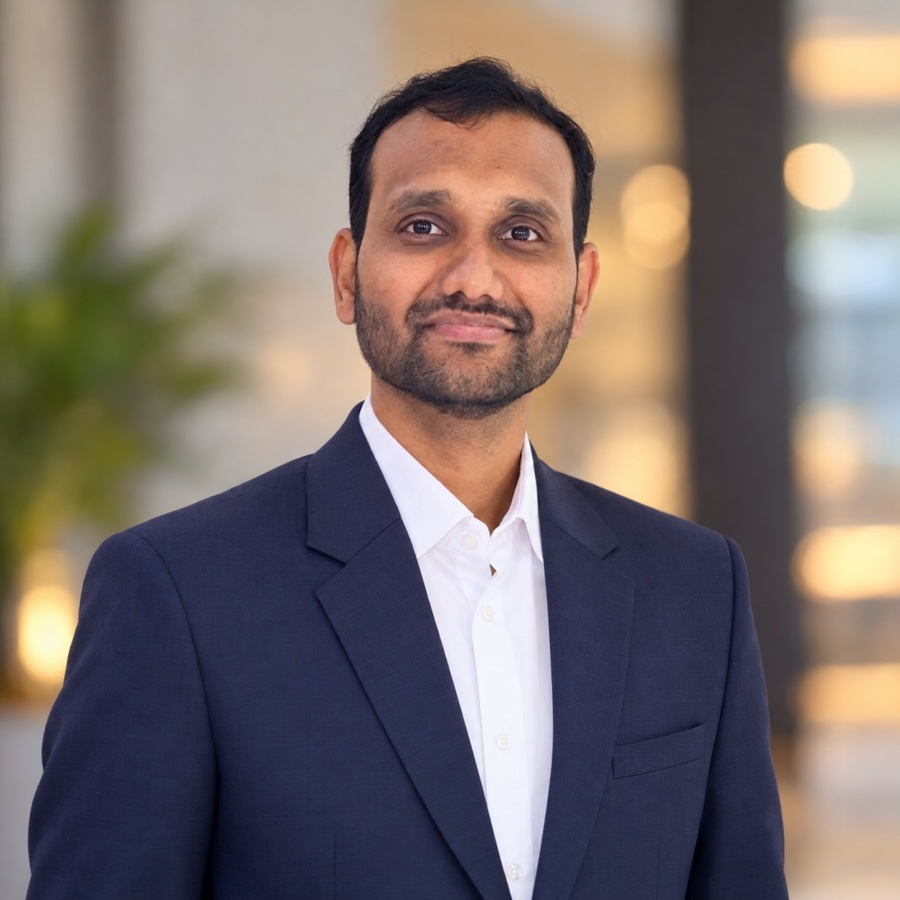
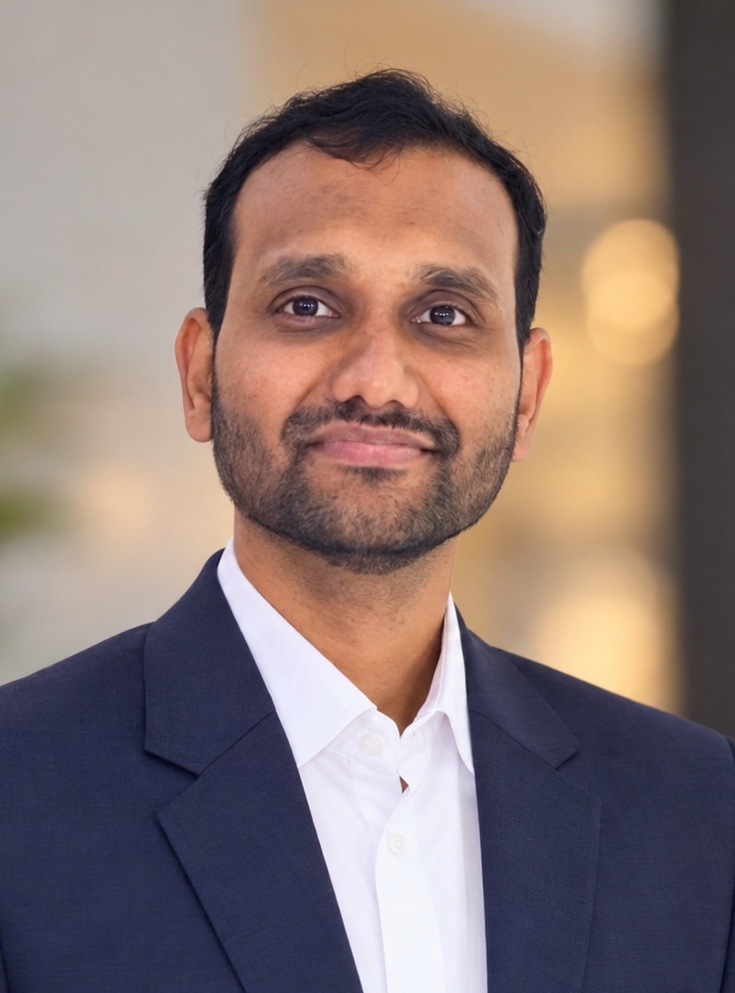
Update profile photo crop

diff --git a/css/trending-portfolio.css b/css/trending-portfolio.css
@@ -113,7 +113,7 @@ h1 { font-size: clamp(2.3rem, 5vw, 3.8rem); font-weight: 700; }
 
 .hero-visual { position: relative; justify-self: center; width: min(360px, 100%); }
 .photo-frame { padding: 8px; border-radius: 28px; background: linear-gradient(145deg, var(--primary), var(--primary-2)); box-shadow: var(--shadow); }
-.photo-frame img { border-radius: 22px; width: 100%; aspect-ratio: 4 / 5; object-fit: cover; object-position: center 15%; }
+.photo-frame img { border-radius: 22px; width: 100%; aspect-ratio: 4 / 5; object-fit: cover; object-position: center top; }
 
 .stats {
   display: grid; grid-template-columns: repeat(4, 1fr); margin-top: 56px;
